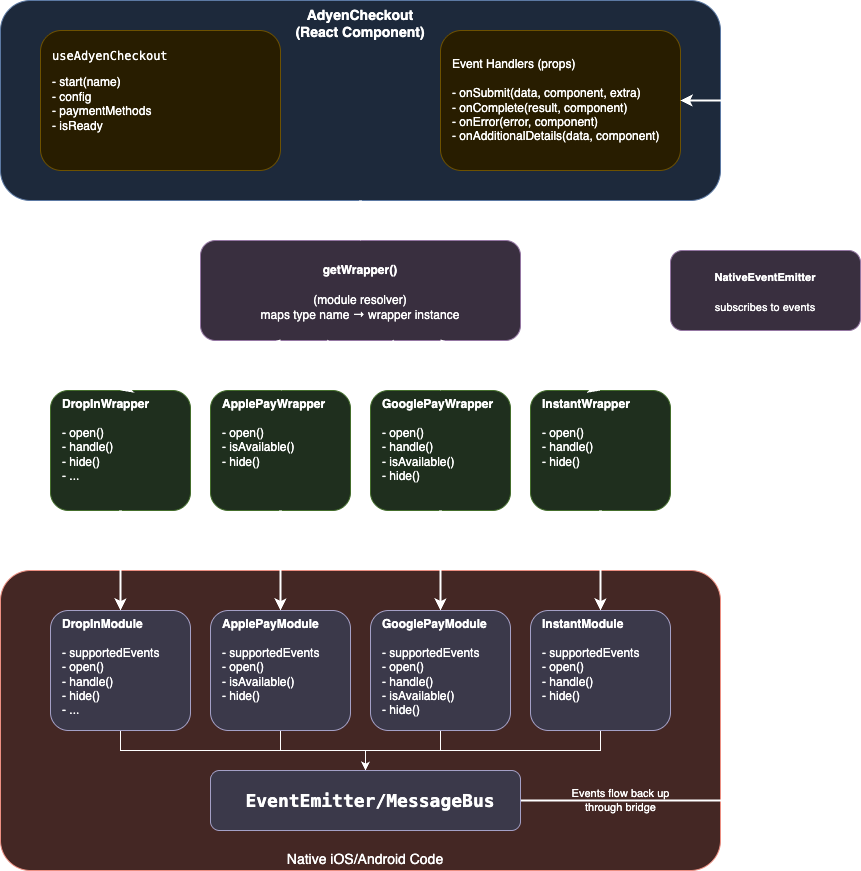
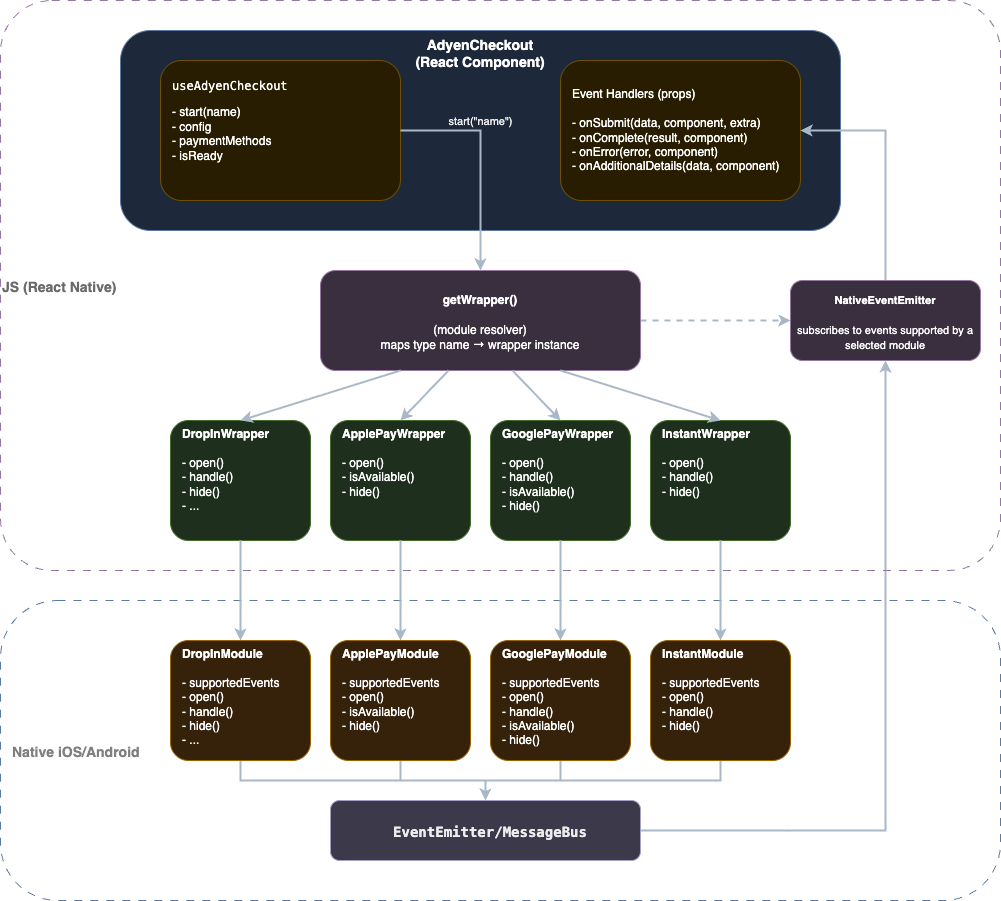
chore: correct diagram link

diff --git a/docs/Architecture.md b/docs/Architecture.md
@@ -2,7 +2,7 @@
 
 ## Data Flow
 
-![Data Flow](assets/Architecture.png)
+![Data Flow](./assets/Architecture.png)
 
 ## Directory Structure
 
